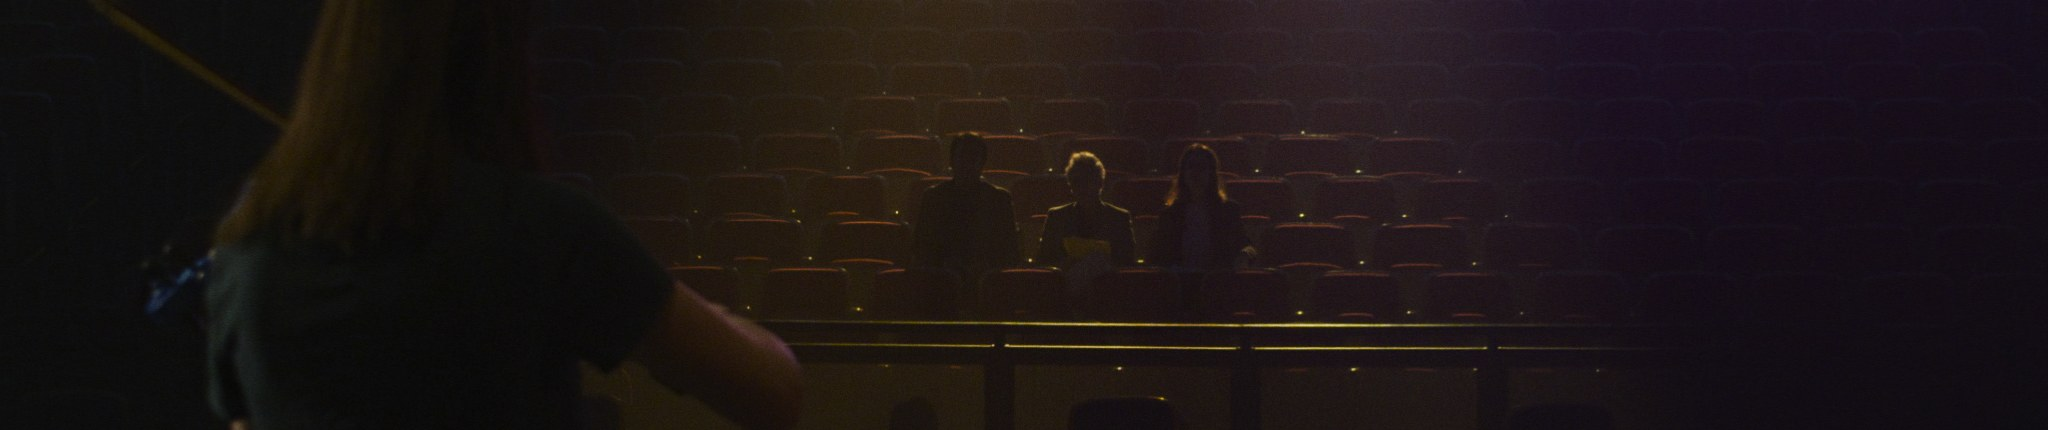
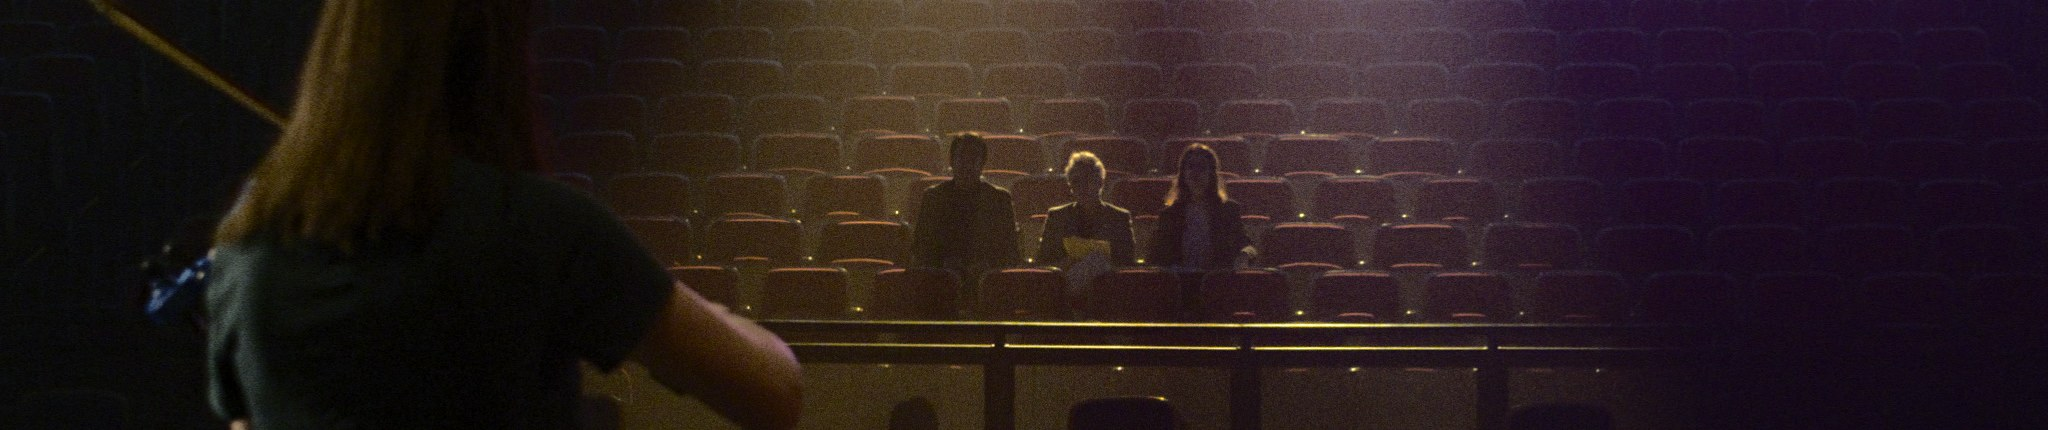
Grade the violinist band: contrast, midtones, highlight lift
The band read as a black rectangle on the page. Regraded from the source
TIF rather than the exported jpg, so this shapes real pixels instead of
pushing ones already crushed.

Not brighter. Shadows go DOWN and the lit pool comes UP: 5th percentile
12 to 7, 95th 38 to 75, mean 22 to 30. The order matters: contrast around
a pivot taken from this frame's own histogram, black point, midtone gamma
so black and white stay pinned while the middle moves, then a highlight
lift keyed to where this frame's light actually sits. Its 95th percentile
was 38 of 255, so an ordinary highlight range would have missed the
picture entirely.

The grade lives in export_frames.py as a GRADE knob keyed by source
filename, the same shape as every other knob there, so a re-export
reproduces it instead of wiping it. That file is gitignored, so it is not
in this commit.

Verified by re-exporting all 133 frames and diffing: 162 of 163 files
byte identical, band-a the only change.

Also corrects the .band-a comment, which described band-c's field shot.

Claude-Session: https://claude.ai/code/session_01AD9GW9j8YkeiKYsxxsV3v6

diff --git a/site/index.html b/site/index.html
@@ -135,7 +135,7 @@ h1 span{display:block}
 .band-a{aspect-ratio:2048/430}   /* the violinist, cut shorter still */
 .band-b{aspect-ratio:2048/540}
 .band img{width:100%;height:100%;object-fit:cover;object-position:center 50%}
-.band-a img{object-position:center 50%}   /* the field: keep the horizon */
+.band-a img{object-position:center 50%}   /* the violinist: hold the seat rows */
 .band-b img{object-position:center 12%}   /* the two shot: hold their heads */
 
 /* SECTIONS */
